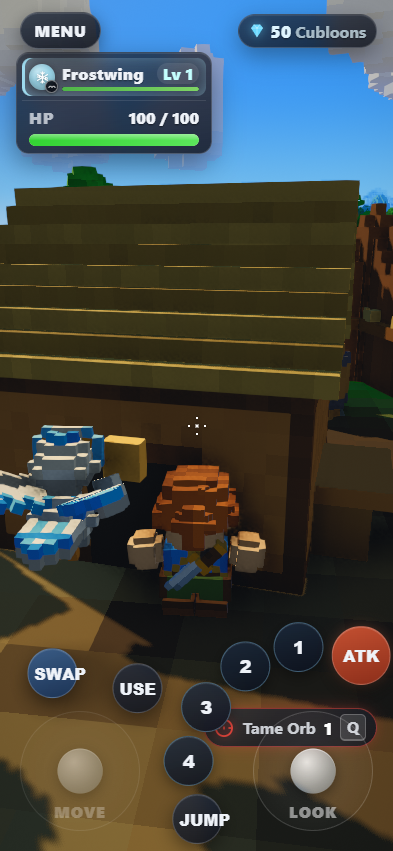
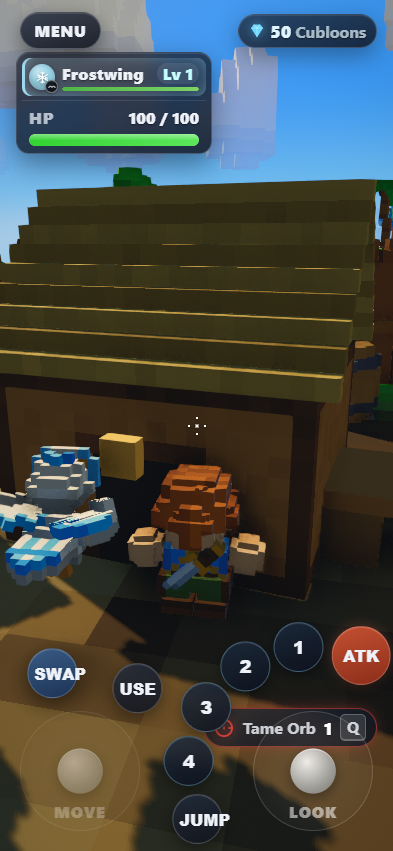
A door that releases a bond, and the two probes that needed one (#142)
`/grant none` (and `__dbgGrantBeast('none')`) releases every bond and
empties both slots — the same reset `exitToTitle` runs, without leaving
the world. A developer door that can grant and not un-grant is half a
door, and the starter beast is what made the other half load-bearing.

WHY: a companion standing beside the hero FIGHTS, and test-taming stages a
wild animal six units from him eighteen times in a row. Measured on this
branch, two runs in five lost their subject — the staged Boulderpup gone
from the assist sweep entirely on one run, the meadow down from four
Sproutles to two on another — while the same probe went 3/3 from a clean
worktree at origin/main, where a new game is bonded to nothing. Not a
flake in the probe and not a bug in the game: a companion killing the
thing you are trying to tame is the game working.

So both probes assert what a new game NOW starts with, and then empty the
party for the sections that were written against an empty one:

- test-taming: a new section 1b, and its later assertions go back to the
  originals — the first bond leads, one companion in the world.
- test-inventory: the boot claim moves from "no beast anywhere" to "the
  lead slot filled, support empty, and still no bag row", because a beast
  is roster-derived and never was bag stock.

test-taming 3/3, test-inventory, test-companion.

diff --git a/src/main.ts b/src/main.ts
@@ -4233,6 +4233,22 @@ function devGrant(arg: string | undefined): string {
   // mount to say anything (a flyer under the island, a swimmer in the basin) and
   // the one that runs first should not have to know which. See the note in
   // tools/test-inventory.mjs's cleanup section.
+  // A DOOR THAT ONLY OPENS IS HALF A DOOR. `none` releases every bond and
+  // empties both slots, which is the state a new game had before
+  // `STARTER_BEAST` and the state a probe about EARNING a bond needs: a
+  // companion standing beside the hero fights the wild animals a taming test
+  // stages next to him, and test-taming lost its subject about two runs in five.
+  // The same reset `exitToTitle` runs, without leaving the world.
+  if (arg === 'none') {
+    const had = owned.size;
+    owned.clear();
+    primaryIdx = -1;
+    supportIdx = -1;
+    devSeated = 0;
+    refreshVisibility();
+    inventory.refresh();
+    return `released ${had} bond(s) — the party is empty`;
+  }
   if (arg === 'all') {
     let n = 0;
     for (const b of roster) if (grantBeast(b.species.id)) n++;
@@ -4271,8 +4287,9 @@ devConsole?.register({
 });
 devConsole?.register({
   name: 'grant',
-  args: '[<speciesId>|all]',
-  help: 'Bond a beast outright, no orb needed; bare /grant lists what you have.',
+  args: '[<speciesId>|all|none]',
+  help: 'Bond a beast outright, no orb needed; /grant none releases every bond; '
+    + 'bare /grant lists what you have.',
   run: (args) => devGrant(args[0]),
 });
 // TEST HOOK, and the same argument `__dbgTp` makes: it DRIVES STATE, which is a
